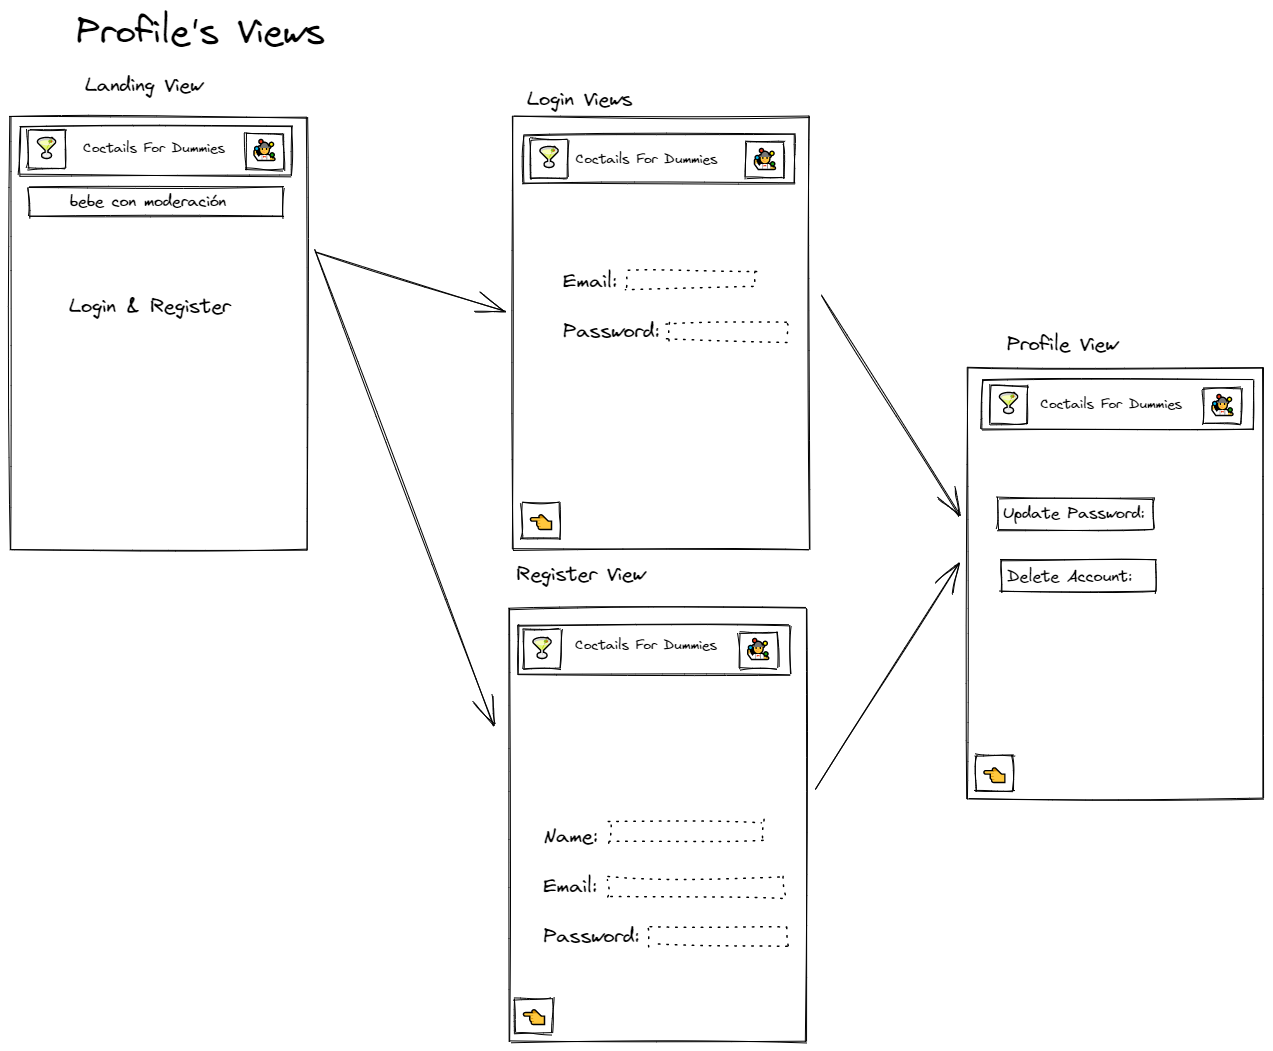
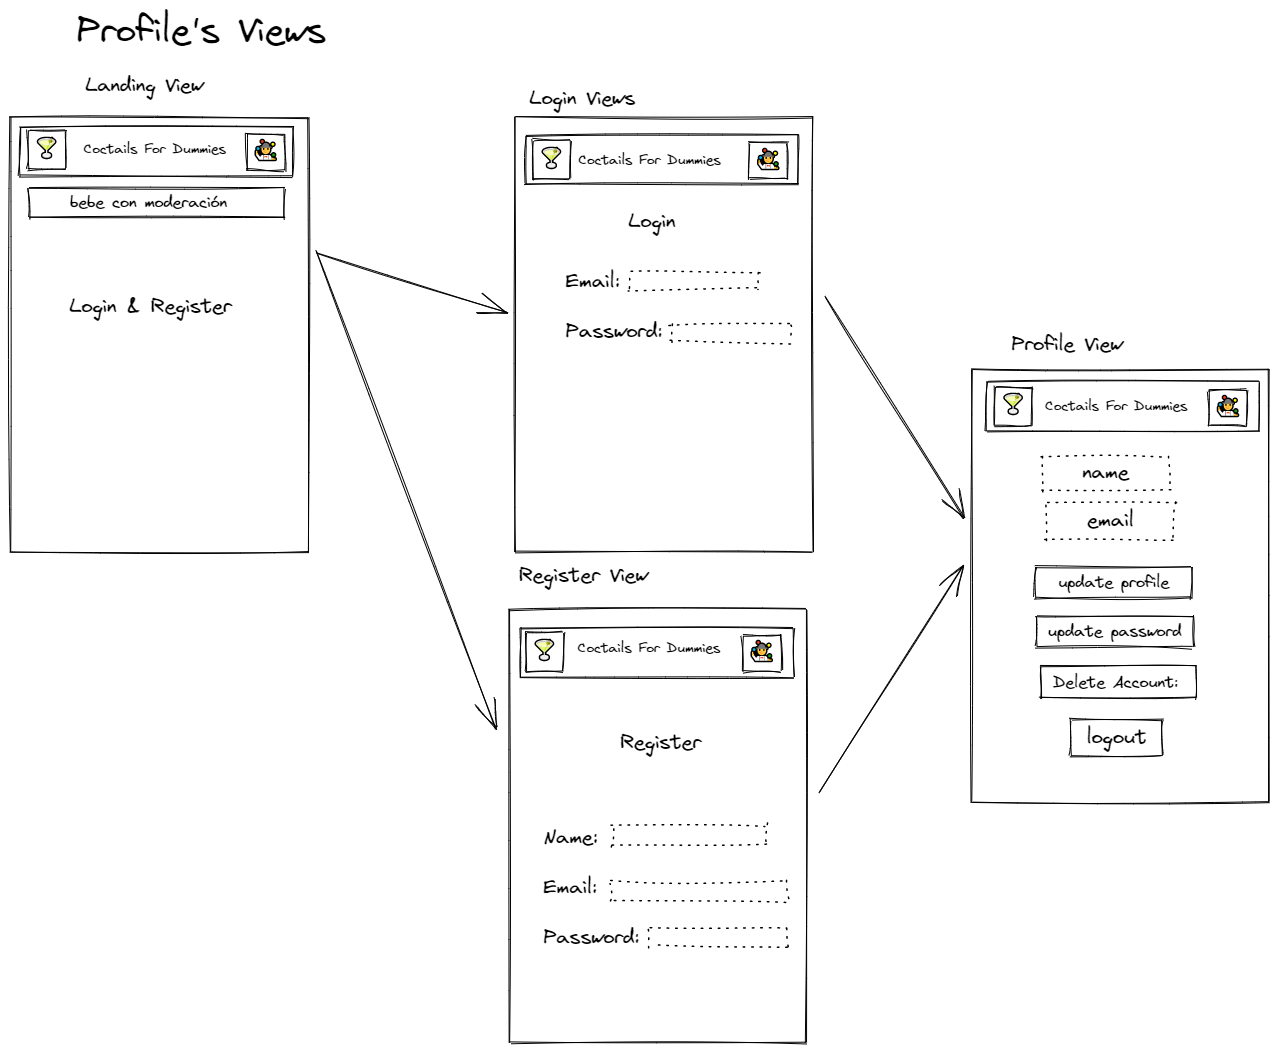
fixing documentation

diff --git a/staff/alejandro-peraza/final-project/Docs/Readme.md b/staff/alejandro-peraza/final-project/Docs/Readme.md
@@ -25,7 +25,6 @@ Como usuario podrás:
 - Buscar cócteles en la app
 - Listar cócteles
 - Ver detalles de cócteles y su receta
-- Guardar cócteles favoritos
 - Añadir comentarios a los cócteles
 
 
@@ -33,29 +32,22 @@ Como usuario podrás:
 
 ![alt](./images/use-cases.png)
 
-<!-- rebuild use cases with handlers actions -->
-<!-- example (https://github.com/nsauram/neoland-bootcamp-202109/tree/feature/fullstack/staff/noelia-saura/fullstack/project/inmymind-doc) -->
-<!-- ![alt](./images/use-cases.png) -->
 
 #### Flows
 
 ![alt](./images/Flow.png)
 
-<!-- TODO
-Ver vídeo (https://www.youtube.com/watch?v=cvYhuowazh0)
-link example (https://github.com/manuelbarzi/neoland-bootcamp-202201/blob/36c46f5cb15fe4209a8f6101813bf6c7d6941e4f/staff/maria-navarrete/full-stack/final-project/docs/images/createDiagram.jpg)
-Flow de ver un cóctel
-Flow de añadir un comentario -->
+
 
 #### User Interface (UI)
 
 
 ##### Main Views
-<!-- wireframes -->
 
-![alt](./images/user-view.png)
 
 ![alt](./images/profile-view.png)
+
+![alt](./images/users-view.png)
 
 ## Technical Description
 
@@ -65,8 +57,6 @@ Flow de añadir un comentario -->
 
 ### Data Model
 
-<!-- TODO link er diagram -->
-<!-- example (https://github.com/manuelbarzi/neoland-bootcamp-202201/blob/36c46f5cb15fe4209a8f6101813bf6c7d6941e4f/staff/maria-navarrete/full-stack/final-project/docs/images/ERDiagram.jpg) -->
 
 
 User
@@ -93,8 +83,3 @@ Comments
 
 ![alt](./images/ERD.png)
 
-<!-- TODO
-change ER diagram
-finish wireframes
-review flow with a ux/ui student
--->
